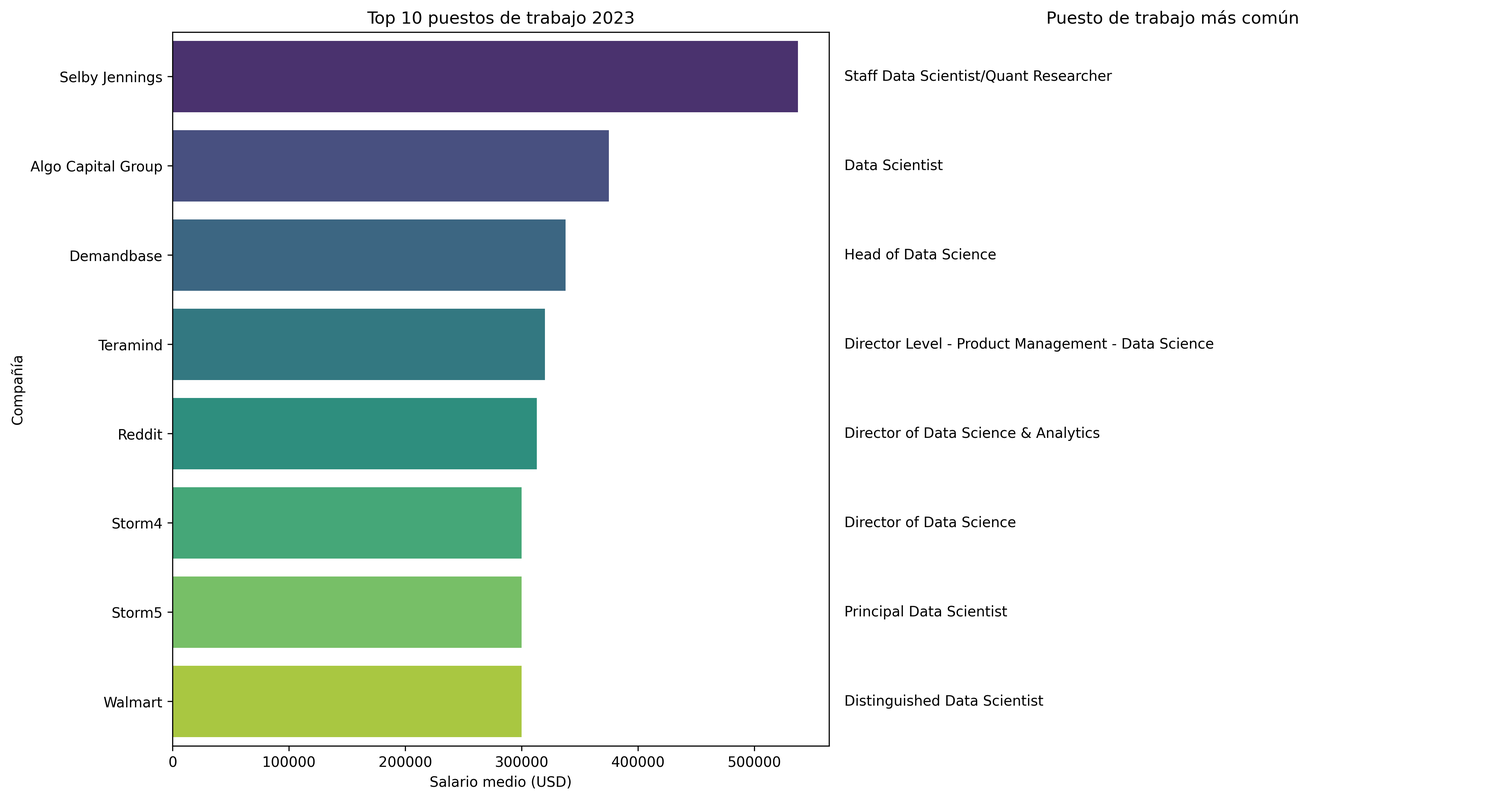
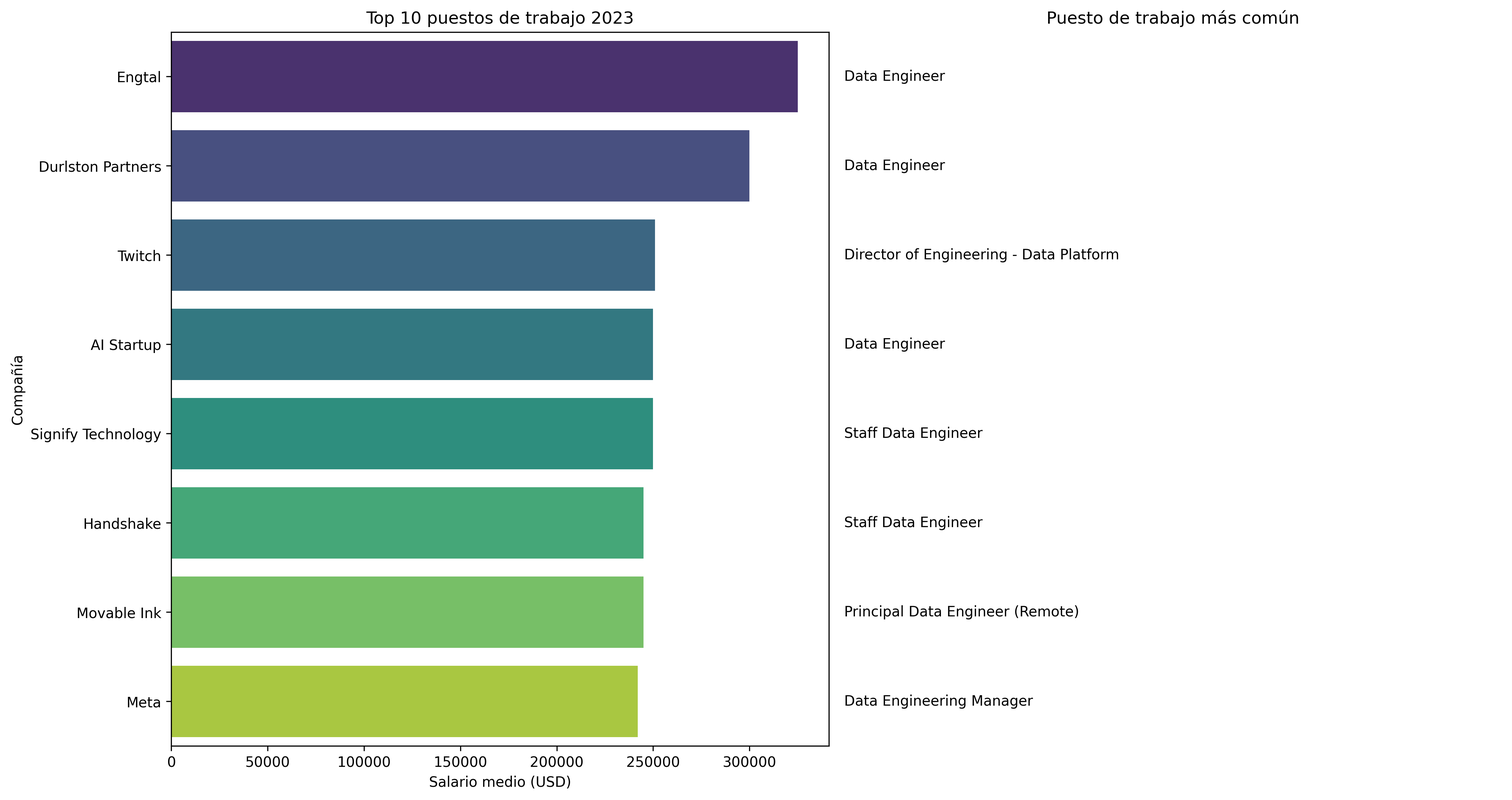
Primer commit

diff --git a/README.md b/README.md
@@ -1,16 +1,16 @@
 # Introducción
-💻 Profundizando en el mercado laboral! Con un enfoque hacia el Data Scientist 📊 y sus puestos de trabajo en todo el mundo 🌐 este proyecto explora el Top 10 puestos de trabajo mejor pagados 💰, las habilidades informáticas más demandadas 🔥 e incluso las habilidades más óptimas mejores pagadas 📈 en análisis de datos.
+💻 Profundizando en el mercado laboral! Con un enfoque hacia el Data Engineer 🔧 y sus puestos de trabajo en todo el mundo 🌐 este proyecto explora el Top 10 puestos de trabajo mejor pagados 💰, las habilidades informáticas más demandadas 🔥 e incluso las habilidades más óptimas mejores pagadas 📈 en ingeniería de datos.
 
 Queries de SQL? echa un vistazo aquí: [SQL_projects](/Tech_jobs_SQL/)
 
 # Antecedentes
-Esta es una continuación de mi proyecto anterior "SQL Data Analyst Jobs" en el que busqué desvelar las habilidades necesarias y entender mi situación en el mercado a la hora de exigir un salario como analista de datos. Sin embargo, mi formación es la de un data scientist y por lo tanto, realicé queries relevantes para entender las habilidades, remuneración económica y demanda en el mercado laboral partiendo del objetivo de convertirme en data scientist. 
+Esta es una continuación de mis proyectos anteriores "SQL Data Analyst y Data Scientost Jobs" en el que busqué desvelar las habilidades necesarias y entender mi situación en el mercado a la hora de exigir un salario en empresas tecnológicas. 
 
 ### Con mis queries busco responder las siguientes preguntas:
 
-1. Cuáles son los puestos mejor pagados para un científico de datos en remoto?
+1. Cuáles son los puestos mejor pagados para un ingeniero de datos en remoto?
 2. Cuáles son las skills requeridas para estos puestos de trabajo?
-3. Cuáles son las skills más demandadas para ser un científico de datos?
+3. Cuáles son las skills más demandadas para ser un ingeniero de datos?
 4. Cuáles skills están asociadas a un mayor salario?
 5. Cuáles son las skills óptimas para aprender?
 
@@ -26,11 +26,11 @@ Para mi análisis profundo en el mercado laboral de los científicos de datos re
 - *ChatGPT:* IA para interpretación de los JSON resultado de la Query e investigación en simultáneo de las skills desconocidas.
 
 # El análisis
-Cada una de las queries busca abordar aspectos diferentes del mercado laboral de un científico de datos. Así abordé las preguntas:
+Cada una de las queries busca abordar aspectos diferentes del mercado laboral de un ingeniero de datos. Así abordé las preguntas:
 
 ### 1. Puestos mejor pagados para un científico de datos en remoto
 
-Para identificar el **top 10** puestos de trabajo **mejor pagados** filtré las posiciones de científico de datos **(Data Scientist)** por el salario medio anual y por la ubicación, enfocado también en trabajos **en remoto**. Esta Query resalta las oportunidades mejor pagadas en el campo.
+Para identificar el **top 10** puestos de trabajo **mejor pagados** filtré las posiciones de ingeniero de datos **(Data Scientist)** por el salario medio anual y por la ubicación, enfocado también en trabajos **en remoto**. Esta Query resalta las oportunidades mejor pagadas en el campo.
 
 ```sql
 SELECT 
@@ -46,7 +46,7 @@ FROM
     job_postings_fact
 LEFT JOIN company_dim ON job_postings_fact.company_id = company_dim.company_id  
 WHERE 
-    job_title_short = 'Data Scientist' AND
+    job_title_short = 'Data Engineer' AND
     job_location IN ('Anywhere') AND
     salary_year_avg IS NOT NULL
 ORDER BY 
@@ -55,7 +55,7 @@ LIMIT 10
 ```
 ### Insights:
 ![Top 10 trabajos por compañía](/assets/Top_10_trabajos_company.png)
-*Este gráfico muestra el top 10 de compañías a nivel mundial que mejor pagan la posición de **Científico de datos** o que lo incluyen en su descripción del puesto. Las posiciones en cuestión son en **Remoto.***
+*Este gráfico muestra el top 10 de compañías a nivel mundial que mejor pagan la posición de **Ingeniero de datos** o que lo incluyen en su descripción del puesto. Las posiciones en cuestión son en **Remoto.***
 ### 2. Skills requeridas para estos puestos de trabajo
 
 Utilizando el top 10 puestos de trabajo de la Query anterior, aquí combiné la tabla de los trabajos posteados junto con la tabla de skills a través del id presente en ambas tablas. De esta forma puedo observar las **skills demandadas** en aquellos puestos **del top**. 
@@ -72,7 +72,7 @@ INNER JOIN
 INNER JOIN
     skills_dim ON skills_job_dim.skill_id = skills_dim.skill_id
 WHERE 
-    job_title_short = 'Data Scientist' AND
+    job_title_short = 'Data Engineer' AND
     job_work_from_home = True
 GROUP BY
     skills
@@ -82,18 +82,20 @@ LIMIT 5
 ```
 |skills |conteo_demanda
 |-------|-------------
-|python |10390
-|sql    |7488
-|r      |4674
-|aws    |2593
-|tableau|2458
+|sql    |14213
+|python |13893
+|aws    |8570
+|azure  |6997
+|spark  |6612
 
 ### Insights: 
-1. **Python y R lideran de manera destacada** Con 10,390 menciones, **Python** es la habilidad más demandada, superando ampliamente a otras. Esto reafirma que es el lenguaje de programación esencial y predominante en el campo de la ciencia de datos, probablemente debido a su versatilidad y extensas bibliotecas especializadas como **Pandas, NumPy y Scikit-learn**. **R** sin embargo, con 4,674 sigue teniendo relevancia en el sector académico y de investigación. Su demanda es significativamente menor comparada con **Python y SQL**, lo que podría indicar un uso más especializado en comparación con **Python**.
+1. **La competencia clave:** Vuelve a liderar la demanda **SQL** (14,213 menciones) y se destaca como esencial para los data engineers, lo cual indica que la capacidad de manejar y optimizar bases de datos es un requisito central en el rol.
 
-2. **SQL sigue siendo crítico:**  Con 7,488 menciones, **SQL** es la segunda habilidad más demandada, lo que resalta la importancia de la gestión y consulta de bases de datos. Los empleadores buscan candidatos que puedan manipular y analizar grandes volúmenes de datos almacenados en **bases de datos relacionales**.
+2. **Lenguaje versátil:**  Siguiendo con **Python** (13,893 menciones) que está casi al nivel de SQL, lo que refleja su versatilidad en el análisis de datos, automatización de procesos y, en muchos casos, en el desarrollo de pipelines de datos.
 
-3. **Plataformas de nube y visualización de datos:**. **AWS** (2,593 menciones) y **Tableau** (2,458 menciones) muestran una demanda relevante, lo que sugiere que los empleadores valoran las competencias en infraestructura en la nube y la capacidad de comunicar hallazgos a través de visualización de datos. Esto indica una tendencia hacia la necesidad de habilidades complementarias que permitan gestionar datos en entornos escalables y presentar resultados de manera efectiva.
+3. **AWS vs. Azure en la Nube:** Considerand que **AWS** (8,570 menciones) y Azure (6,997 menciones) son las principales plataformas de computación en la nube solicitadas, podemos evidenciar la competencia entre ambas plataformas. El mercado busca un ingeniero de datos con experiencia en al menos una de ellas.
+
+4. **Habilidad de Procesamiento:** Cerrando el top tenemos a **Spark** que destaca en habilidades en procesamiento de datos a gran escala y en tiempo real, necesarias en empresas que manejan grandes volúmenes de datos, tiene sentido que se halle debajo de **SQL y Python** ya que la **Spark** utiliza estos dos a una mayor velocidad de procesamiento y son por tanto, un prerrequisito de **Spark**.
 
 ### 3. Skills más demandadas para ser un analista de datos
 
@@ -111,7 +113,7 @@ WITH top_trabajos AS (
         job_postings_fact
     LEFT JOIN company_dim ON job_postings_fact.company_id = company_dim.company_id  
     WHERE 
-        job_title_short = 'Data Analyst' AND
+        job_title_short = 'Data Engineer' AND
         job_location IN ('Anywhere') AND
         salary_year_avg IS NOT NULL
     ORDER BY 
@@ -134,10 +136,13 @@ ORDER BY
 ### Insights:
 
 ![Salario promedio por empresa](/assets/salario_por_compania.png) 
-*Este gráfico de barras muestra el salario promedio de cada empresa en el conjunto de datos. Selby Jennings tuvo el promedio más alto, seguida de Algo Capital Group, Teramid, Lawrence Harvey y Storm4.*
+*Este gráfico de barras muestra las compañías mencionadas en la primera consulta, la siguiente gráfica nos explica aquellas Skills demandadas por estas compañías*
 
 ![Frecuencia de habilidades en diferentes roles laborales](/assets/frecuencia_skills.png)
-*Este gráfico de barras muestra las habilidades mencionadas con más frecuencia en diferentes roles laborales. Python, SQL, AWS, Pytorch y Tensorflow como las habilidades más comunes en estas empresas, lo que indica su gran demanda en estos roles relacionados con **ETL** de **bases de datos relacionales** y modelos de **Machine Learning**.*
+*Este gráfico de barras muestra las Skills de las compañías anteriores en orden de frecuencia de aparición, siendo las mas frecuentes: Python, Spark, Hadoop, Kafka y Scala. Esto indica su gran demanda en estos roles relacionados con **procesamiento de datos en tiempo real** (*Hadoop, Kafka*) y a gran escala con preferencias a lenguajes de **Big Data** (*Python, Scala, Apache Spark*) en ecosistemas escalables y distribuidos.
+
+#### Y SQL, AWS y Azure? 
+El hecho de que no figuren en las empresas con mejores salarios pero si en la mayoría de las ofertas de empleo sugiere que las mismas empresas confían en infraestructuras personalizadas o que busquen habilidades más especializadas dando por hecho el manejo de la nube como un prerrequisito.
 
 ### 4. Skills asociadas a un mayor salario
 
@@ -154,7 +159,7 @@ INNER JOIN
 INNER JOIN
     skills_dim ON skills_job_dim.skill_id = skills_dim.skill_id
 WHERE 
-    job_title_short = 'Data Scientist' AND
+    job_title_short = 'Data Engineer' AND
     salary_year_avg IS NOT NULL AND
     job_work_from_home = True
 GROUP BY
@@ -166,20 +171,20 @@ ORDER BY
 ```
 |top 5 skills   |promedio_paga
 |---------|-------------
-|gdpr     |$217,738
-|golang   |$208,750
-|atlassian|$189,700
-|selenium |$180,000
-|opencv   |$172,500
+|assembly |$192,500
+|mongo    |$182,223
+|ggplot2  |$176,250
+|rust     |$172,819
+|clojure  |$170,867
 
 ### Insights:
-1. Encuanto al desarrollo y progracmación  **Golang** es ideal para la creación de aplicaciones escalables y de alto rendimiento, mientras que **OpenCV** se usa en aplicaciones de visión por computadora. Ambas habilidades requieren un conocimiento profundo de la programación y son valoradas en proyectos de **IA**, robótica y sistemas de backend eficientes.
+1. **Assembly** lidera con el mayor promedio lo que sugiere que las empresas están dispuestas a pagar un alto salario por habilidades de bajo nivel que requieren un conocimiento profundo de hardware y optimización de sistemas, típicamente necesarias en sectores como el desarrollo de sistemas embebidos y aplicaciones de alto rendimiento.
 
-2. Se remunera la automatización y prueba de software. **Selenium** se asocia con la automatización de pruebas, lo cual es fundamental para asegurar la calidad del software en entornos de desarrollo ágil. Esta habilidad complementa otras habilidades de desarrollo al permitir la verificación automática de funcionalidades en aplicaciones web, mejorando la productividad y reduciendo errores manuales.
+2. Demanda de Tecnologías Especializadas y Poco Comunes. **Rust** y **Clojure** son lenguajes menos comunes en comparación con otros lenguajes de programación populares. La alta paga para estos lenguajes puede deberse a una compesanción de las empresas hacia la escasez de expertos en estas tecnologías, destacando la importancia de habilidades de nicho y que ofrecen soluciones seguras y concurrentes (en el caso de **Rust**) y programación funcional avanzada (en el caso de **Clojure**).
 
-3. Alta Paga por una buena gestión de datos. **GDPR** se enfoca en la protección de datos y la privacidad, un área de creciente importancia para cualquier empresa que maneje información personal. La implementación de estándares de cumplimiento es esencial para mantener la confianza del cliente y evitar sanciones legales, lo que explica su alta remuneración.
+3. Creciente valor de las bases de datos NoSQL. **MongoDB** además es la única en la lista indicando que las empresas valoran su alto rendimiento y flexibilidad en sus aplicaciones con datos no estructurados.
 
-4. Las herramientas de colaboración de **Atlassian** están asociadas a la gestión de proyectos en equipos, integrando aspectos de planificación y seguimiento de tareas. Esta habilidad es crucial para empresas que buscan gestionar proyectos de desarrollo de software de forma eficiente, vinculando equipos de desarrollo con procesos de control de calidad, utilizando **Selenium** por ejemplo, y **Jira** para la planificación.
+4. Herramientas de visualización avanzada. Comunmente utilizada en R, **ggplot2** presenta alta remuneración económica debido a su capacidad de generar visualizaciones de datos complejos. Las empresas valoran quienes dominen esta herramienta para la toma de decisiones fundamentada en data. 
 
 ### 5. Skills óptimas para aprender
 
@@ -198,7 +203,7 @@ WITH demanda_skills AS (
     INNER JOIN
         skills_dim ON skills_job_dim.skill_id = skills_dim.skill_id
     WHERE 
-        job_title_short = 'Data Scientist' AND
+        job_title_short = 'Data Engineer' AND
         salary_year_avg IS NOT NULL AND
         job_work_from_home = True 
     GROUP BY
@@ -214,7 +219,7 @@ WITH demanda_skills AS (
     INNER JOIN
         skills_dim ON skills_job_dim.skill_id = skills_dim.skill_id
     WHERE 
-        job_title_short = 'Data Scientist' AND
+        job_title_short = 'Data Engineer' AND
         salary_year_avg IS NOT NULL AND
         job_work_from_home = True
     GROUP BY
@@ -235,86 +240,64 @@ ORDER BY
     
 LIMIT 25
 ```
-| skill_id | Top 25 skills| conteo_demanda | promedio_paga |
-| -------- | ------------ | -------------- | ------------- |
-| 1        | python       | 763            | $143,828        |
-| 0        | sql          | 591            | $142,833        |
-| 5        | r            | 394            | $137,885        |
-| 182      | tableau      | 219            | $146,970        |
-| 76       | aws          | 217            | $149,630        |
-| 92       | spark        | 149            | $150,188        |
-| 99       | tensorflow   | 126            | $151,536        |
-| 74       | azure        | 122            | $142,306        |
-| 101      | pytorch      | 115            | $152,603        |
-| 93       | pandas       | 113            | $144,816        |
-| 186      | sas          | 110            | $129,920        |
-| 7        | sas          | 110            | $129,920        |
-| 97       | hadoop       | 82             | $143,322        |
-| 106      | scikit-learn | 81             | $148,964        |
-| 181      | excel        | 77             | $129,224        |
-| 94       | numpy        | 73             | $149,089        |
-| 80       | snowflake    | 72             | $152,687        |
-| 183      | power bi     | 72             | $131,390        |
-| 4        | java         | 64             | $145,706        |
-| 75       | databricks   | 63             | $139,631        |
-| 81       | gcp          | 59             | $155,811        |
-| 210      | git          | 58             | $132,599        |
-| 8        | go           | 57             | $164,691        |
-| 185      | looker       | 57             | $158,715        |
-| 3        | scala        | 56             | $156,702        |
-
+| skill_id | skills     | conteo_demanda | promedio_paga |
+| -------- | ---------- | -------------- | ------------- |
+| 0        | sql        | 568            | $129,191        |
+| 1        | python     | 535            | $132,200        |
+| 76       | aws        | 367            | $132,865        |
+| 74       | azure      | 254            | $129,574        |
+| 92       | spark      | 237            | $139,838        |
+| 80       | snowflake  | 202            | $134,373        |
+| 96       | airflow    | 151            | $138,518        |
+| 78       | redshift   | 141            | $132,980        |
+| 4        | java       | 139            | $138,087        |
+| 98       | kafka      | 134            | $150,549        |
+| 75       | databricks | 130            | $130,072        |
+| 3        | scala      | 113            | $141,777        |
+| 97       | hadoop     | 98             | $137,707        |
+| 2        | nosql      | 93             | $136,430        |
+| 61       | sql server | 82             | $121,364        |
+| 81       | gcp        | 76             | $133,388        |
+| 182      | tableau    | 76             | $115,246        |
+| 210      | git        | 74             | $128,352        |
+| 183      | power bi   | 65             | $116,949        |
+| 95       | pyspark    | 64             | $139,428        |
+| 214      | docker     | 64             | $134,286        |
+| 79       | oracle     | 63             | $121,980        |
+| 194      | ssis       | 61             | $115,272        |
+| 5        | r          | 60             | $121,065        |
+| 213      | kubernetes | 56             | $158,190        |
 ### Insights:
-#### 1. Habilidades de Machine Learning e IA bien remuneradas:
+1. **Python y SQL** como competencias esenciales: **Python** (535 menciones, $132,200) y **SQL** (568 menciones, $129,191) son altamente demandadas y tienen buenos salarios, lo que indica que siguen siendo habilidades fundamentales para roles en datos. La combinación de demanda y buena paga sugiere que estas habilidades son esenciales para casi cualquier posición de análisis o ingeniería de datos.
 
-- **PyTorch** ($152,603), **TensorFlow** ($151,536), y **scikit-learn** ($148,964) son destacadas en la lista de habilidades de machine learning con promedios de paga altos. Esto subraya la tendencia de la industria hacia la implementación y desarrollo de modelos de aprendizaje profundo y aprendizaje automático.
+2. **Kafka y Kubernetes**: Altas paga con demanda moderada: Aunque **Kafka** ($150,549) y **Kubernetes** ($158,190) tienen una demanda más baja (134 y 56 menciones respectivamente), su alta paga indica que estas habilidades técnicas avanzadas son muy valoradas por las empresas. Esto sugiere que los roles que requieren experiencia en sistemas distribuidos y contenedores están bien remunerados y reflejan una especialización avanzada.
 
-- **Looker** ($158,715) y **Power BI** ($131,390) destacan como herramientas de Business Intelligence que, aunque no tienen la demanda más alta, ofrecen buenos promedios de paga. Esto resalta la importancia creciente de las habilidades de visualización y análisis de datos para la toma de decisiones estratégicas en las empresas.
-
-#### 2. Habilidades tradicionales con alta demanda:
-- **Excel** ($129,224) y **SAS** ($129,920) tienen un menor promedio de paga en comparación con las tecnologías más modernas. Esto sugiere que, aunque siguen siendo útiles, su valor en el mercado está por debajo de las tecnologías más recientes y avanzadas.
-- La demanda mas alta la protagonizan **Python**(763) y **SQL** (591) destacándose como esenciales en el ámbito de la ciencia de datos. Esto reafirma que las empresas priorizan la capacidad de manejar y analizar datos con herramientas versátiles (**Python**) y la habilidad para interactuar eficientemente con bases de datos (**SQL**). 
-
-#### 3. Procesamiento de datos en la nube:
-- **GCP (Google Cloud Platform)** y **Go** tienen las mayores cifras de promedio de paga con $155,811 y $164,691, respectivamente. Esto refleja una alta demanda y escasez de profesionales con experiencia en estas áreas, destacando su importancia en el desarrollo de infraestructuras escalables y sistemas de backend. 
-- **AWS** ($149,630) y **Spark** ($150,188) muestran tanto alta demanda como un promedio de paga significativo, indicando que las empresas están dispuestas a pagar bien por habilidades que permiten manejar grandes volúmenes de datos y gestionar infraestructuras en la nube.
-
-# Lo que aprendí
-
-A lo largo del desarrollo de este proyecto me encontré con algunos desafíos que demandaron lo mejor de mí y de mis conocimientos, aquí algunas cosas aprendidas en el proceso:
-
-- 🐅🐈**Parecidos pero no iguales:**
-Las competencias de un ciéntifico de datos VS las de un analista de datos, tienen ciertas semjanzas como el indispensable manejo de **SQL, Python o R** y de las herramientas de visualización. Pero se tienden a especializar por la *gestión de datos en la nube* y el manejo de *modelos de machine learning* mas especializados.
-
-- 🔒🔑**Complementación:**
-Mientras que un analista de datos se encarga de interpretar y procesar los datos, muchas de las labores de los puestos de trabajo de un científico de datos tienen que ver con desarrollar herramientas que permitan procesar los mismos.
-
-- 💆📂**De nuevo con SQL:**
-Ya puedes ir corrigiendo esos *error en la query* porque **SQL** mantiene los mismos números en su demanda bien sea para un analista bien sea para un científico de datos.
+3. **Spark y Airflow** en procesamiento de datos avanzado: **Spark** (237 menciones, $139,838) y **Airflow** (151 menciones, $138,518) son demandados y ofrecen salarios competitivos, lo que refleja la necesidad de habilidades en procesamiento y gestión de flujos de trabajo de datos a gran escala. Esto muestra que las empresas buscan optimizar sus pipelines de datos y están dispuestas a invertir en habilidades de procesamiento distribuido y automatización.
 
 # Conclusiones 
 
 ## Insights
 
-### 1. Puestos mejor pagados para un científico de datos en remoto
+### 1. Puestos mejor pagados para un ingeniero de datos en remoto
 
- Las habilidades tradicionales siguen siendo fundamentales y son ampliamente demandadas, mientras que las competencias más avanzadas y especializadas pueden ofrecer mayores remuneraciones. Esto sugiere que, para maximizar el valor en el mercado laboral, los profesionales de la ciencia de datos deben combinar una base sólida en habilidades esenciales con el desarrollo de competencias especializadas que estén en crecimiento.
+ Las posiciones de Data Engineer son de las mejor remuneradas en el mundo del Big Data y las empresas están dispuestas a ofrecer jugosos salarios por aquellos con conocimientos demostrables de sus skills relevantes.
 
 ### 2. Skills requeridas para estos puestos de trabajo
 
-**Python** y **SQL** son las habilidades más esenciales y demandadas, con Python liderando por su versatilidad y vasto ecosistema de bibliotecas especializadas, y **SQL** siendo indispensable para la gestión y consulta de bases de datos relacionales. Las habilidades en plataformas de nube como **AWS** y herramientas de visualización de datos como **Tableau** también son altamente valoradas, lo que evidencia la importancia de complementar las competencias de análisis con capacidades de manejo de infraestructuras escalables y presentación de datos.
+**SQL** es el pilar indiscutible para un ingeniero de datos, por lo que esta skill debe dominarse antes de avanzar siquiera con los demás lenguaje de programación. Las herramientas de espacios colaborativos en la nube son más comunes que nunca por lo que también es necesario saber operar en ellos y por último tener conocimientos de herramientas de procesamiento de datos a gran escala. Abarcando así y de manera satisfactoria la mayor parte de las demandas de habilidad del mercado laboral de un Data Engineer.
 
-### 3. Skills más demandadas para ser un científico de datos
+### 3. Skills más demandadas para ser un ingeniero de datos
 
-En cuanto a la especialización, las skills obtienen una mayor demanda en cuanto se refiere a aquellas que permitan la creación de modelos de machine learning y herramientas que faciliten aplicaciones de métodos estadísticos avanzados a los datos.
+Las empresas con los mejores salarios exigen un control en entornos colaborativos y herramientas de procesamiento, junto con un dominio de lenguajes de programación orientada a objetos. Es decir, pagan mejor a aquellos ingenieros de datos que procesan datos en tiempo real efectivamente, pues estos entornos escalables si no están optimizados cuestan mas dinero para la empresa.
 
 ### 4. Skills asociadas a un mayor salario
 
-El mercado tecnológico actual premia la combinación de habilidades avanzadas en desarrollo y gestión de proyectos. Competencias en **Golang** y **OpenCV** son altamente valoradas por su aplicación en **IA** y sistemas escalables, mientras que la automatización de pruebas con **Selenium** es clave para mantener la calidad en entornos ágiles. La alta paga asociada a la protección de datos con **GDPR** refleja la importancia de la privacidad y cumplimiento legal. Además, las herramientas de colaboración de **Atlassian** destacan por su capacidad de coordinar equipos y optimizar la planificación y control de calidad, subrayando que la gestión eficaz de proyectos es tan vital como las habilidades técnicas.
+El mercado tecnológico recompensa generosamente a los ingenieros de datos que sean capaces de asegurar la estructura de los pipelines, tengan conocimiento de hardware y que sean capaces de comunicar información de datos complejos de manera efectiva. Mayor responsabilidad, mayor paga.
 
 ### 5. Skills óptimas para aprender
 
-Las habilidades en **Machine Learning e IA,** como **PyTorch** y **scikit-learn**, están bien remuneradas, reflejando la creciente implementación de modelos de aprendizaje profundo en la industria. Herramientas de Business Intelligence como **Looker** y **Power BI** también destacan, subrayando la importancia de la visualización de datos en la toma de decisiones empresariales. **AWS** y **Spark** son valoradas por su capacidad de manejar grandes volúmenes de datos en la nube. Por lo tanto, es óptimo aprender al menos una habilidad de cada par mencionado para satisfacer las demandas de los empleadores y a su vez recibir una buena remuneración. 
+Las habilidades óptimas combinan conocimientos amplios en programación y bases de datos con capacidades específicas en infraestructura de datos avanzada. Esto sugiere que las empresas están dispuestas a pagar salarios elevados para roles que, además de cubrir lo básico, añaden valor a través de la capacidad de escalar, automatizar y optimizar el procesamiento de datos a gran escala.
 
 ## Pensamientos finales
 
-Después de haber analizado las skills necesarias para un científico de datos según el mercado laboral he llegado a la conclusión que se necesitan buenas bases de donde partir para el procesamiento de datos, esto se refleja en la alta demanda aunque baja remuneración de **Excel, Python y SQL** como bases indispensables y luego tomar un camino por la especialización en cuanto a gestión de datos en entornos colaborativos en la nube de **GCP o AWS**, dominio de **Spark** o **Pytorch**; skills que su baja demanda es inversamente proporcional a su remuneración económica por lo que parece. Estas demandas dependerán del modo en que opere la empresa empleadora, pero una vez conociendo una herramienta es más fácil adaptarse a otra. 
+En el camino de un ingeniero de datos vale más tener una sólida base de **SQL y Python** para el manejo de bases de datos. Luego escoger espacios en la nube como **AWS, Azure o GCP** y  dominar frameworks como **Hadoop o Apache Spark** después de tener una sólida base de conocimientos de las anteriores skills y por último me especializaría en sistemas distribuidos como **Kafka**. Ese sería mi camino de éxito.
